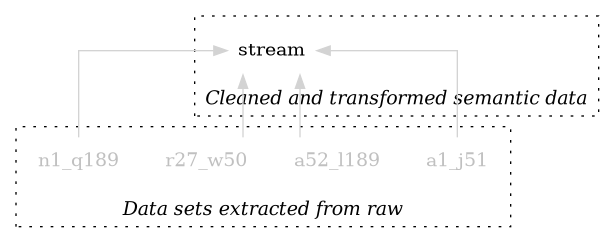
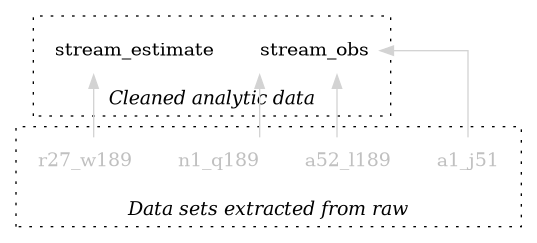
Update internal datasets and documentation for analysis-ready datasets

diff --git a/data-architecture/README.md b/data-architecture/README.md
@@ -1,20 +1,21 @@
 # Data architecture
 
-The package separates source extractions from semantic datasets. The diagram shows the planned data flow:
+The package will provide two analysis-ready datasets directly from selected ranges in the source sheet. There is no separate semantic-data stage. The diagram shows the planned flow:
 
-![Data lineage from the raw spreadsheet extractions to the semantic stream dataset](data-architecture.png)
+![Selected spreadsheet ranges feeding the stream observations and estimates datasets](data-architecture.png)
 
-## Source layer
+## Selected source ranges
 
-Source extraction names describe the spreadsheet range they cover. For example, `a1_j51` represents cells `A1:J51`; `a52_l189` represents `A52:L189`.
+Source range names describe the spreadsheet cells they cover: `a1_j51` is `A1:J51`, `a52_l189` is `A52:L189`, `n1_q189` is `N1:Q189`, and `r27_w189` is `R27:W189`. These ranges capture the date-associated stream observations and estimates selected for analysis; they are not intended to reproduce every populated cell in the sheet.
 
-Raw extractions are internal package data, available for inspection with triple-colon access, such as `blockdata:::a1_j51`. They are not part of the documented public interface. The extraction script uses the spreadsheet's first row as column names, keeps cell values as character data, and does not clean or transform the values. Thus `a1_j51` contains rows 2–51 as data with row 1 as its column names; `a52_l189` contains rows 52–189 with column names taken from row 1.
+The source ranges are packaged internally as character data and can be inspected during development with triple-colon access, for example `blockdata:::a1_j51`. The extraction uses row 1 for observation field names and row 27 for estimate headings, omitting those header rows from the data. `a52_l189` uses the observation field names from row 1 even though its range starts at row 52. Stream records use the date in column A; the date is not a complete calendar date because the source omits the year. Estimate values must be matched to the corresponding stream rows.
 
-## Semantic layer
+## Analysis datasets
 
-Semantic datasets are named for their grain; e.g., `stream` indicates a dataset of one row per stream. The planned `stream` dataset is cleaned and transformed from the source extractions and will be available through the public package interface as `blockdata::stream`. pkgdown documentation should focus on these semantic datasets.
+- `stream_obs` — one row per observed stream, combining the selected observation fields from `a1_j51`, `a52_l189`, and `n1_q189`.
+- `stream_estimate` — stream estimates from `r27_w189`, matched to the stream date.
 
-The initial package work covers the package scaffold and source extraction datasets. The semantic `stream` dataset is a later step.
+These are the planned analysis datasets and public package interface. The current extraction script builds the four internal source-range objects; building these analysis datasets is a later step.
 
 ## Regenerate the diagram
 

diff --git a/README.md b/README.md
@@ -6,7 +6,7 @@
 
 - `DESCRIPTION`, `NAMESPACE`, and `R/` — R package metadata and internal datasets.
 - `data-raw/` — source CSV, its spreadsheet reference, and the extraction script.
-- `data-raw/extract.R` — rebuilds the internal datasets from the source CSV.
+- `data-raw/extract.R` — rebuilds four internal source-range extracts.
 - `data-architecture/` — lineage diagram and architecture notes.
 - `renv.lock` — pinned R package versions.
 - `renv/` and `.Rprofile` — project-local R environment activation.
@@ -14,7 +14,7 @@
 
 ## Data architecture
 
-See [data architecture](data-architecture/README.md) for the lineage diagram, source range naming convention, and the planned package interface for raw and semantic datasets.
+See [data architecture](data-architecture/README.md) for the selected source ranges and the two planned analysis datasets.
 
 ## Website
 
@@ -34,12 +34,11 @@ Open R in the repository root. Use `load_all()` to load the working package into
 
 ```r
 devtools::load_all()
-blockdata:::a1_j51
 ```
 
-Use `devtools::install()` when you want to install the package into the active library. The package currently has no exported objects; both raw extractions are internal. See [data architecture](data-architecture/README.md) for the planned interface and dataset names.
+Use `devtools::install()` when you want to install the package into the active library. The intended analysis datasets are `stream_obs` and `stream_estimate`; they are not implemented yet. See [data architecture](data-architecture/README.md) for their planned contents.
 
-## Rebuild raw extractions
+## Rebuild current extracts
 
 Run this from the repository root after updating the source CSV in `data-raw/`:
 
@@ -47,7 +46,7 @@ Run this from the repository root after updating the source CSV in `data-raw/`:
 Rscript data-raw/extract.R
 ```
 
-The script uses base R and writes the internal data objects to `R/sysdata.rda`.
+The script uses base R and writes the four selected source-range objects to `R/sysdata.rda`. The analysis datasets shown in the architecture diagram are a later step.
 
 To add an R package dependency, install it into the project library and record it in `renv.lock`:
 

diff --git a/data-raw/README.md b/data-raw/README.md
@@ -1,5 +1,5 @@
 # Raw source data
 
-The CSV in this directory is an export of the [source Google Sheet](https://docs.google.com/spreadsheets/d/1jrO-xAbp_sMstrJlWC6fsNnBINRrmrwquY-oOr8zW5o/edit?gid=44479275#gid=44479275).
+The CSV in this directory is an export of the [source Google Sheet](https://docs.google.com/spreadsheets/d/1jrO-xAbp_sMstrJlWC6fsNnBINRrmrwquY-oOr8zW5o/edit?gid=44479275#gid=44479275). It is the checked-in source for package data.
 
-Run `Rscript data-raw/extract.R` from the repository root to rebuild the internal package datasets in `R/sysdata.rda`.
+Run `Rscript data-raw/extract.R` from the repository root to rebuild the four internal source-range datasets in `R/sysdata.rda`. See [data architecture](../data-architecture/README.md) for the selected ranges and planned analysis datasets.
